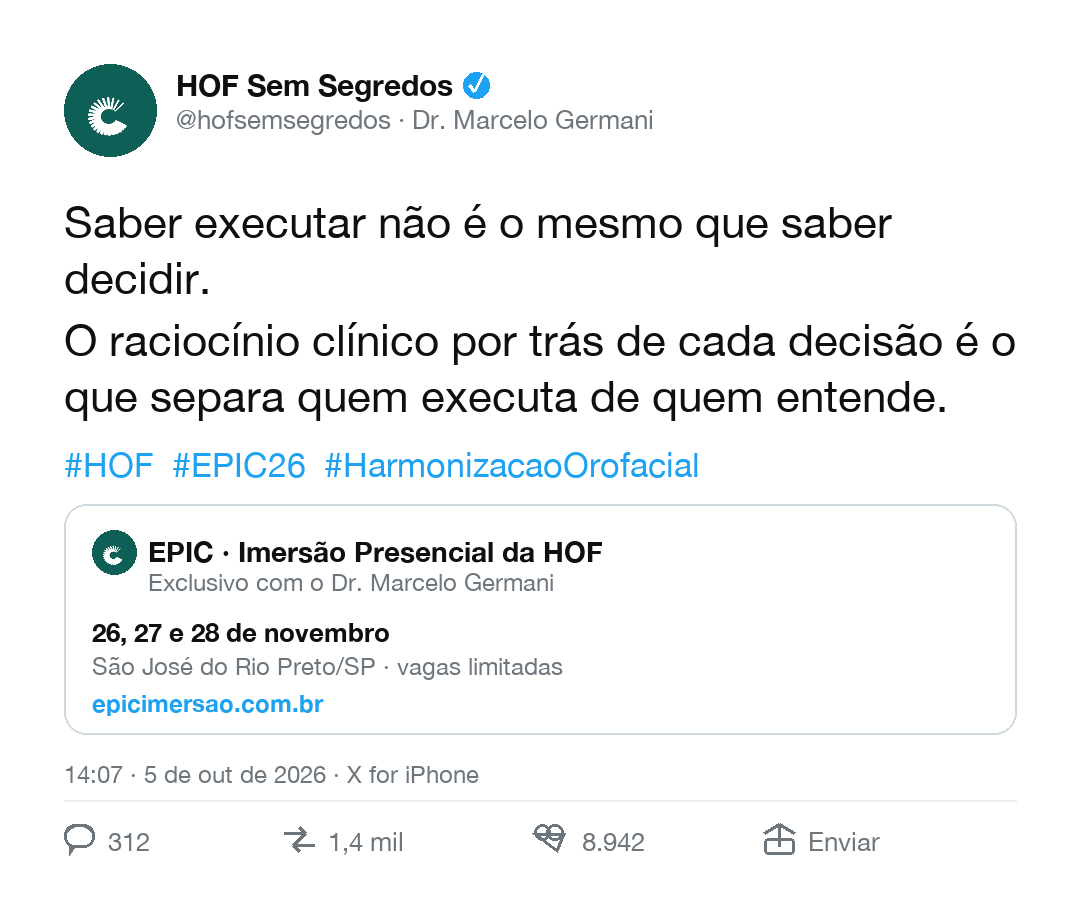
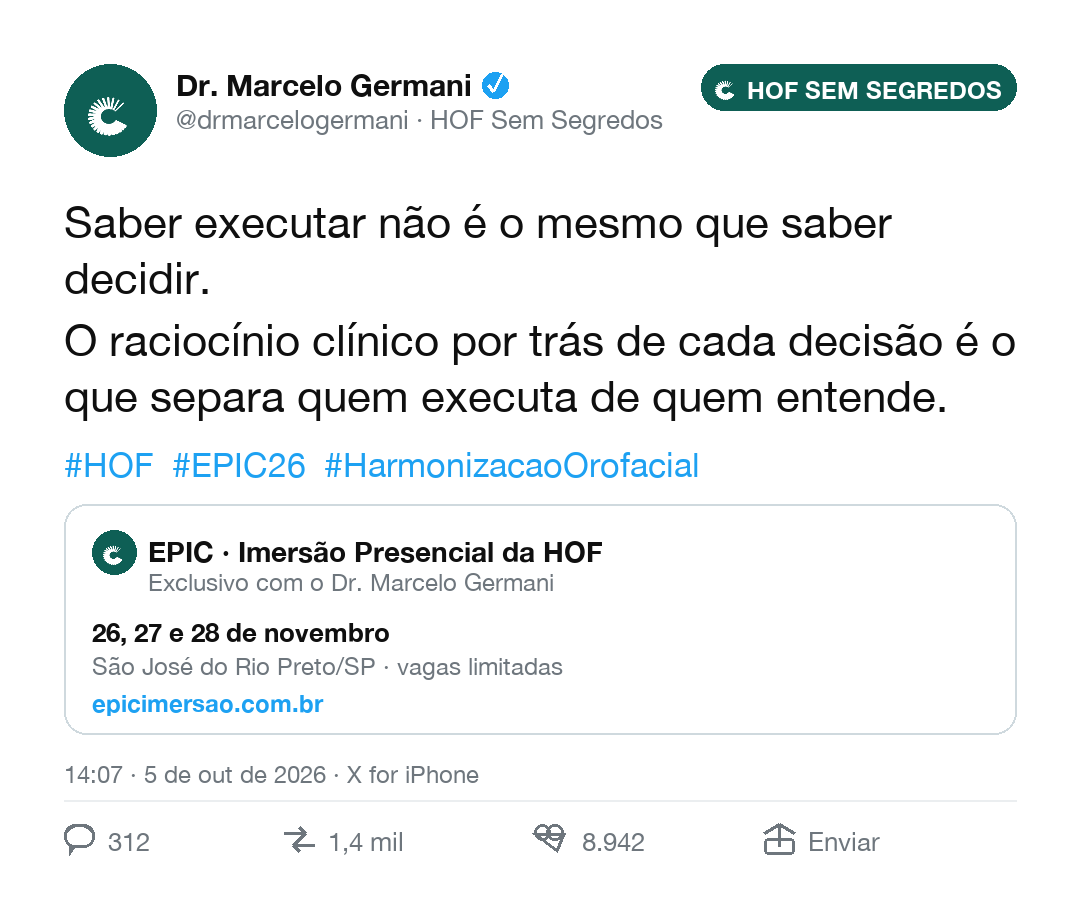
HOF: volta perfil do Dr. Marcelo no tweet (com selo HOF bem visivel) + cache-busting nas imagens do EPIC Nov/26

Changed region(s): [[0.1528, 0.0613, 0.6111, 0.1532], [0.6417, 0.0613, 0.9472, 0.1225]]

diff --git a/hof/epic-nov26-criativos/index.html b/hof/epic-nov26-criativos/index.html
@@ -109,7 +109,7 @@ h1{font-size:clamp(32px,4.6vw,46px);line-height:1.05;letter-spacing:-.015em}
   <div class="props">
 
     <article class="prop">
-      <a class="prop-img" href="/criativos/hof-epic-nov26/EPIC01_ALEMDAEXECUCAO.png" target="_blank" rel="noopener"><img src="/criativos/hof-epic-nov26/EPIC01_ALEMDAEXECUCAO.png" alt="EPIC01_ALEMDAEXECUCAO" loading="lazy" width="1080" height="1350"></a>
+      <a class="prop-img" href="/criativos/hof-epic-nov26/EPIC01_ALEMDAEXECUCAO.png?v=20261005c" target="_blank" rel="noopener"><img src="/criativos/hof-epic-nov26/EPIC01_ALEMDAEXECUCAO.png?v=20261005c" alt="EPIC01_ALEMDAEXECUCAO" loading="lazy" width="1080" height="1350"></a>
       <div class="prop-top"><span class="t-n">01 · Feed 4:5</span><span class="prop-pub">Já atua — ir além</span></div>
       <h4>Saber executar não é o mesmo que saber decidir</h4>
       <span class="prop-arq">EPIC01_ALEMDAEXECUCAO.png · Dourado</span>
@@ -119,7 +119,7 @@ h1{font-size:clamp(32px,4.6vw,46px);line-height:1.05;letter-spacing:-.015em}
     </article>
 
     <article class="prop">
-      <a class="prop-img" href="/criativos/hof-epic-nov26/EPIC02_COMOPORQUE.png" target="_blank" rel="noopener"><img src="/criativos/hof-epic-nov26/EPIC02_COMOPORQUE.png" alt="EPIC02_COMOPORQUE" loading="lazy" width="1080" height="1080"></a>
+      <a class="prop-img" href="/criativos/hof-epic-nov26/EPIC02_COMOPORQUE.png?v=20261005c" target="_blank" rel="noopener"><img src="/criativos/hof-epic-nov26/EPIC02_COMOPORQUE.png?v=20261005c" alt="EPIC02_COMOPORQUE" loading="lazy" width="1080" height="1080"></a>
       <div class="prop-top"><span class="t-n">02 · Feed 1:1</span><span class="prop-pub">Já atua — evoluir planejamento</span></div>
       <h4>Do "como fazer" para o "por que fazer"</h4>
       <span class="prop-arq">EPIC02_COMOPORQUE.png · Verde-petróleo</span>
@@ -129,7 +129,7 @@ h1{font-size:clamp(32px,4.6vw,46px);line-height:1.05;letter-spacing:-.015em}
     </article>
 
     <article class="prop">
-      <a class="prop-img" href="/criativos/hof-epic-nov26/EPIC03_NAOPRECISASABER.png" target="_blank" rel="noopener"><img src="/criativos/hof-epic-nov26/EPIC03_NAOPRECISASABER.png" alt="EPIC03_NAOPRECISASABER" loading="lazy" width="1080" height="1920"></a>
+      <a class="prop-img" href="/criativos/hof-epic-nov26/EPIC03_NAOPRECISASABER.png?v=20261005c" target="_blank" rel="noopener"><img src="/criativos/hof-epic-nov26/EPIC03_NAOPRECISASABER.png?v=20261005c" alt="EPIC03_NAOPRECISASABER" loading="lazy" width="1080" height="1920"></a>
       <div class="prop-top"><span class="t-n">03 · Story/Reels 9:16</span><span class="prop-pub">Iniciante</span></div>
       <h4>Você não precisa chegar já sabendo tudo</h4>
       <span class="prop-arq">EPIC03_NAOPRECISASABER.png · Terracota</span>
@@ -139,7 +139,7 @@ h1{font-size:clamp(32px,4.6vw,46px);line-height:1.05;letter-spacing:-.015em}
     </article>
 
     <article class="prop">
-      <a class="prop-img" href="/criativos/hof-epic-nov26/EPIC04_LINHADOTEMPO3DIAS.png" target="_blank" rel="noopener"><img src="/criativos/hof-epic-nov26/EPIC04_LINHADOTEMPO3DIAS.png" alt="EPIC04_LINHADOTEMPO3DIAS" loading="lazy" width="1080" height="1350"></a>
+      <a class="prop-img" href="/criativos/hof-epic-nov26/EPIC04_LINHADOTEMPO3DIAS.png?v=20261005c" target="_blank" rel="noopener"><img src="/criativos/hof-epic-nov26/EPIC04_LINHADOTEMPO3DIAS.png?v=20261005c" alt="EPIC04_LINHADOTEMPO3DIAS" loading="lazy" width="1080" height="1350"></a>
       <div class="prop-top"><span class="t-n">04 · Feed 4:5</span><span class="prop-pub">Já atua — ir além</span></div>
       <h4>Anatomia + raciocínio clínico + prática supervisionada</h4>
       <span class="prop-arq">EPIC04_LINHADOTEMPO3DIAS.png · Verde-petróleo</span>
@@ -149,7 +149,7 @@ h1{font-size:clamp(32px,4.6vw,46px);line-height:1.05;letter-spacing:-.015em}
     </article>
 
     <article class="prop">
-      <a class="prop-img" href="/criativos/hof-epic-nov26/EPIC05_BASESOLIDA.png" target="_blank" rel="noopener"><img src="/criativos/hof-epic-nov26/EPIC05_BASESOLIDA.png" alt="EPIC05_BASESOLIDA" loading="lazy" width="1080" height="1080"></a>
+      <a class="prop-img" href="/criativos/hof-epic-nov26/EPIC05_BASESOLIDA.png?v=20261005c" target="_blank" rel="noopener"><img src="/criativos/hof-epic-nov26/EPIC05_BASESOLIDA.png?v=20261005c" alt="EPIC05_BASESOLIDA" loading="lazy" width="1080" height="1080"></a>
       <div class="prop-top"><span class="t-n">05 · Feed 1:1</span><span class="prop-pub">Iniciante</span></div>
       <h4>Base sólida desde o primeiro procedimento</h4>
       <span class="prop-arq">EPIC05_BASESOLIDA.png · Terracota</span>
@@ -159,7 +159,7 @@ h1{font-size:clamp(32px,4.6vw,46px);line-height:1.05;letter-spacing:-.015em}
     </article>
 
     <article class="prop">
-      <a class="prop-img" href="/criativos/hof-epic-nov26/EPIC06_QUALPRODUTO.png" target="_blank" rel="noopener"><img src="/criativos/hof-epic-nov26/EPIC06_QUALPRODUTO.png" alt="EPIC06_QUALPRODUTO" loading="lazy" width="1080" height="1920"></a>
+      <a class="prop-img" href="/criativos/hof-epic-nov26/EPIC06_QUALPRODUTO.png?v=20261005c" target="_blank" rel="noopener"><img src="/criativos/hof-epic-nov26/EPIC06_QUALPRODUTO.png?v=20261005c" alt="EPIC06_QUALPRODUTO" loading="lazy" width="1080" height="1920"></a>
       <div class="prop-top"><span class="t-n">06 · Story/Reels 9:16</span><span class="prop-pub">Já atua — evoluir planejamento</span></div>
       <h4>Qual produto, quando usar e quando não usar</h4>
       <span class="prop-arq">EPIC06_QUALPRODUTO.png · Dourado</span>
@@ -169,7 +169,7 @@ h1{font-size:clamp(32px,4.6vw,46px);line-height:1.05;letter-spacing:-.015em}
     </article>
 
     <article class="prop">
-      <a class="prop-img" href="/criativos/hof-epic-nov26/EPIC07_DEMOAOVIVO.png" target="_blank" rel="noopener"><img src="/criativos/hof-epic-nov26/EPIC07_DEMOAOVIVO.png" alt="EPIC07_DEMOAOVIVO" loading="lazy" width="1080" height="1350"></a>
+      <a class="prop-img" href="/criativos/hof-epic-nov26/EPIC07_DEMOAOVIVO.png?v=20261005c" target="_blank" rel="noopener"><img src="/criativos/hof-epic-nov26/EPIC07_DEMOAOVIVO.png?v=20261005c" alt="EPIC07_DEMOAOVIVO" loading="lazy" width="1080" height="1350"></a>
       <div class="prop-top"><span class="t-n">07 · Feed 4:5</span><span class="prop-pub">Todos — autoridade</span></div>
       <h4>Você vê o Dr. Marcelo atendendo pacientes ao vivo</h4>
       <span class="prop-arq">EPIC07_DEMOAOVIVO.png · Terracota</span>
@@ -179,7 +179,7 @@ h1{font-size:clamp(32px,4.6vw,46px);line-height:1.05;letter-spacing:-.015em}
     </article>
 
     <article class="prop">
-      <a class="prop-img" href="/criativos/hof-epic-nov26/EPIC08_ENTENDEVEFAZ.png" target="_blank" rel="noopener"><img src="/criativos/hof-epic-nov26/EPIC08_ENTENDEVEFAZ.png" alt="EPIC08_ENTENDEVEFAZ" loading="lazy" width="1080" height="1080"></a>
+      <a class="prop-img" href="/criativos/hof-epic-nov26/EPIC08_ENTENDEVEFAZ.png?v=20261005c" target="_blank" rel="noopener"><img src="/criativos/hof-epic-nov26/EPIC08_ENTENDEVEFAZ.png?v=20261005c" alt="EPIC08_ENTENDEVEFAZ" loading="lazy" width="1080" height="1080"></a>
       <div class="prop-top"><span class="t-n">08 · Feed 1:1</span><span class="prop-pub">Iniciante</span></div>
       <h4>Primeiro você entende. Depois você vê. Então você faz.</h4>
       <span class="prop-arq">EPIC08_ENTENDEVEFAZ.png · Dourado</span>
@@ -189,7 +189,7 @@ h1{font-size:clamp(32px,4.6vw,46px);line-height:1.05;letter-spacing:-.015em}
     </article>
 
     <article class="prop">
-      <a class="prop-img" href="/criativos/hof-epic-nov26/EPIC09_EXECUTARXENTENDER.png" target="_blank" rel="noopener"><img src="/criativos/hof-epic-nov26/EPIC09_EXECUTARXENTENDER.png" alt="EPIC09_EXECUTARXENTENDER" loading="lazy" width="1080" height="1920"></a>
+      <a class="prop-img" href="/criativos/hof-epic-nov26/EPIC09_EXECUTARXENTENDER.png?v=20261005c" target="_blank" rel="noopener"><img src="/criativos/hof-epic-nov26/EPIC09_EXECUTARXENTENDER.png?v=20261005c" alt="EPIC09_EXECUTARXENTENDER" loading="lazy" width="1080" height="1920"></a>
       <div class="prop-top"><span class="t-n">09 · Story/Reels 9:16</span><span class="prop-pub">Já atua — ir além</span></div>
       <h4>O que separa quem executa de quem realmente entende</h4>
       <span class="prop-arq">EPIC09_EXECUTARXENTENDER.png · Verde-petróleo</span>
@@ -199,7 +199,7 @@ h1{font-size:clamp(32px,4.6vw,46px);line-height:1.05;letter-spacing:-.015em}
     </article>
 
     <article class="prop">
-      <a class="prop-img" href="/criativos/hof-epic-nov26/EPIC10_BONUSHSSPLAY.png" target="_blank" rel="noopener"><img src="/criativos/hof-epic-nov26/EPIC10_BONUSHSSPLAY.png" alt="EPIC10_BONUSHSSPLAY" loading="lazy" width="1080" height="1350"></a>
+      <a class="prop-img" href="/criativos/hof-epic-nov26/EPIC10_BONUSHSSPLAY.png?v=20261005c" target="_blank" rel="noopener"><img src="/criativos/hof-epic-nov26/EPIC10_BONUSHSSPLAY.png?v=20261005c" alt="EPIC10_BONUSHSSPLAY" loading="lazy" width="1080" height="1350"></a>
       <div class="prop-top"><span class="t-n">10 · Feed 4:5</span><span class="prop-pub">Todos — bônus</span></div>
       <h4>3 dias presenciais + 3 meses de conteúdo pra revisar depois</h4>
       <span class="prop-arq">EPIC10_BONUSHSSPLAY.png · Dourado</span>
@@ -217,7 +217,7 @@ h1{font-size:clamp(32px,4.6vw,46px);line-height:1.05;letter-spacing:-.015em}
   <div class="conceitos">
 
     <article class="conc">
-      <a class="conc-img" href="/criativos/hof-epic-nov26/EPICX_TWEET.png" target="_blank" rel="noopener"><img src="/criativos/hof-epic-nov26/EPICX_TWEET.png" alt="Conceito tweet" loading="lazy"></a>
+      <a class="conc-img" href="/criativos/hof-epic-nov26/EPICX_TWEET.png?v=20261005c" target="_blank" rel="noopener"><img src="/criativos/hof-epic-nov26/EPICX_TWEET.png?v=20261005c" alt="Conceito tweet" loading="lazy"></a>
       <div class="conc-body">
         <h4>1 · Print de tweet (X/Twitter)</h4>
         <p>Simula um post antigo do Twitter do próprio Dr. Marcelo, com quote-card da oferta embutido. Formato 1080×960, EPICX_TWEET.png.</p>
@@ -225,7 +225,7 @@ h1{font-size:clamp(32px,4.6vw,46px);line-height:1.05;letter-spacing:-.015em}
     </article>
 
     <article class="conc">
-      <a class="conc-img" href="/criativos/hof-epic-nov26/EPICX_POSTER.png" target="_blank" rel="noopener"><img src="/criativos/hof-epic-nov26/EPICX_POSTER.png" alt="Conceito poster tipográfico" loading="lazy"></a>
+      <a class="conc-img" href="/criativos/hof-epic-nov26/EPICX_POSTER.png?v=20261005c" target="_blank" rel="noopener"><img src="/criativos/hof-epic-nov26/EPICX_POSTER.png?v=20261005c" alt="Conceito poster tipográfico" loading="lazy"></a>
       <div class="conc-body">
         <h4>2 · Poster tipográfico</h4>
         <p>Só logo + tipografia grande sobre gradiente verde-petróleo, sem nenhum elemento de foto — estética de poster editorial. Formato 1080×1350, EPICX_POSTER.png.</p>
@@ -233,7 +233,7 @@ h1{font-size:clamp(32px,4.6vw,46px);line-height:1.05;letter-spacing:-.015em}
     </article>
 
     <article class="conc">
-      <a class="conc-img" href="/criativos/hof-epic-nov26/EPICX_WHATSAPP.png" target="_blank" rel="noopener"><img src="/criativos/hof-epic-nov26/EPICX_WHATSAPP.png" alt="Conceito WhatsApp" loading="lazy"></a>
+      <a class="conc-img" href="/criativos/hof-epic-nov26/EPICX_WHATSAPP.png?v=20261005c" target="_blank" rel="noopener"><img src="/criativos/hof-epic-nov26/EPICX_WHATSAPP.png?v=20261005c" alt="Conceito WhatsApp" loading="lazy"></a>
       <div class="conc-body">
         <h4>3 · Print de conversa no WhatsApp</h4>
         <p>Mockup de chat (cabeçalho, bolhas, confirmação de leitura, campo de resposta) simulando a abordagem que o cliente recebe de verdade. Formato 1080×1460, EPICX_WHATSAPP.png.</p>
@@ -241,7 +241,7 @@ h1{font-size:clamp(32px,4.6vw,46px);line-height:1.05;letter-spacing:-.015em}
     </article>
 
     <article class="conc">
-      <a class="conc-img" href="/criativos/hof-epic-nov26/EPICX_NEWS.png" target="_blank" rel="noopener"><img src="/criativos/hof-epic-nov26/EPICX_NEWS.png" alt="Conceito breaking news" loading="lazy"></a>
+      <a class="conc-img" href="/criativos/hof-epic-nov26/EPICX_NEWS.png?v=20261005c" target="_blank" rel="noopener"><img src="/criativos/hof-epic-nov26/EPICX_NEWS.png?v=20261005c" alt="Conceito breaking news" loading="lazy"></a>
       <div class="conc-body">
         <h4>4 · Breaking news / última chamada</h4>
         <p>Linguagem de telejornal — faixa vermelha "PRESENCIAL" com pino de localização, tipografia condensada em caixa alta, rodapé tipo ticker de notícia. Formato 1080×1080, EPICX_NEWS.png.</p>
@@ -249,7 +249,7 @@ h1{font-size:clamp(32px,4.6vw,46px);line-height:1.05;letter-spacing:-.015em}
     </article>
 
     <article class="conc">
-      <a class="conc-img" href="/criativos/hof-epic-nov26/EPICX_MAGAZINE.png" target="_blank" rel="noopener"><img src="/criativos/hof-epic-nov26/EPICX_MAGAZINE.png" alt="Conceito capa de revista" loading="lazy"></a>
+      <a class="conc-img" href="/criativos/hof-epic-nov26/EPICX_MAGAZINE.png?v=20261005c" target="_blank" rel="noopener"><img src="/criativos/hof-epic-nov26/EPICX_MAGAZINE.png?v=20261005c" alt="Conceito capa de revista" loading="lazy"></a>
       <div class="conc-body">
         <h4>5 · Capa de revista</h4>
         <p>Masthead serifado, pull-quote editorial e cover-lines como manchete de revista — tom premium, fundo creme, zero dark mode. Formato 1080×1350, EPICX_MAGAZINE.png.</p>
